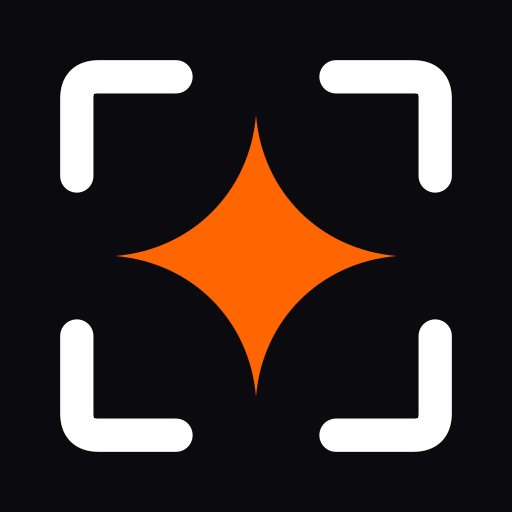
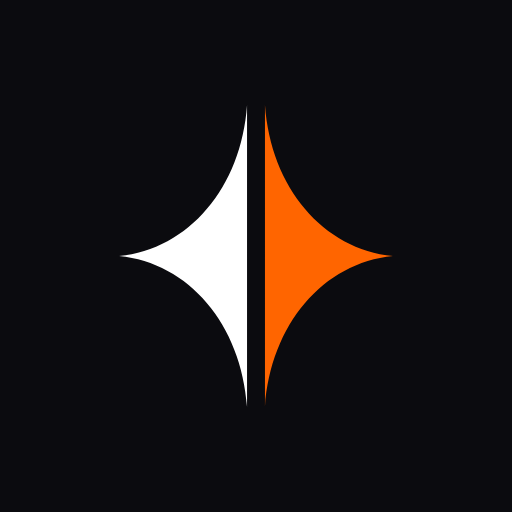
Create betaalprovider-keuze.md

diff --git a/components/logo.tsx b/components/logo.tsx
@@ -1,43 +1,61 @@
 import Link from "next/link"
 
-// Merk-lockup: kader-met-ster (het platform + de ster die schittert) naast het
-// woordmerk. De mark gebruikt currentColor voor het kader (wit op donker) en de
-// brand-oranje #FF6500 voor de ster; het woordmerk staat in Helvetica Bold,
-// exact zoals het merkboard.
-export function Logo({ href = "/" }: { href?: string }) {
+// De gedeelde ster: twee helften — de organisator (currentColor, wit op donker)
+// en de DJ (brand-oranje). Los is elke helft incompleet, samen vormen ze één
+// ster: "be the star you want to be".
+export function StarMark({ className = "h-8 w-8" }: { className?: string }) {
+  return (
+    <svg viewBox="0 0 800 800" className={`flex-none ${className}`} aria-hidden="true">
+      <path fill="currentColor" d="M386.0 164C377.0 292.738,295.1 389.38,186.0 400C295.1 410.62,377.0 507.262,386.0 636Z" />
+      <path fill="#FF6500" d="M414.0 164C423.0 292.738,504.9 389.38,614.0 400C504.9 410.62,423.0 507.262,414.0 636Z" />
+    </svg>
+  )
+}
+
+// Alleen het beeldmerk — voor de balk linksboven, waar de naam al uit de context
+// blijkt.
+export function LogoMark({
+  href = "/",
+  className = "h-8 w-8",
+}: {
+  href?: string
+  className?: string
+}) {
+  return (
+    <Link href={href} aria-label="MyGigs" className="inline-flex">
+      <StarMark className={className} />
+    </Link>
+  )
+}
+
+// Het volledige merk: ster boven, naam eronder in gespatieerde kapitalen —
+// MY in de tekstkleur, GIGS in brand-oranje. De extra text-indent compenseert
+// de letterspatie rechts zodat het woord optisch gecentreerd blijft.
+export function Logo({
+  href = "/",
+  size = "sm",
+}: {
+  href?: string
+  size?: "sm" | "lg"
+}) {
+  const mark = size === "lg" ? "h-16 w-16 sm:h-20 sm:w-20" : "h-8 w-8"
+  const word =
+    size === "lg"
+      ? "text-xl sm:text-2xl -mt-1"
+      : "text-[13px] -mt-0.5"
+
   return (
     <Link
       href={href}
       aria-label="MyGigs"
-      className="inline-flex items-center gap-2.5"
+      className="inline-flex flex-col items-center leading-none"
     >
-      <svg
-        viewBox="0 0 800 800"
-        className="h-8 w-8 flex-none"
-        aria-hidden="true"
-      >
-        <g
-          fill="none"
-          stroke="currentColor"
-          strokeWidth={52}
-          strokeLinecap="round"
-          strokeLinejoin="round"
-        >
-          <path d="M120 275V154Q120 120 154 120H275" />
-          <path d="M525 120H646Q680 120 680 154V275" />
-          <path d="M680 525V646Q680 680 646 680H525" />
-          <path d="M275 680H154Q120 680 120 646V525" />
-        </g>
-        <path
-          fill="#FF6500"
-          d="M400 180C410 300 500 390 620 400C500 410 410 500 400 620C390 500 300 410 180 400C300 390 390 300 400 180Z"
-        />
-      </svg>
+      <StarMark className={mark} />
       <span
-        className="text-xl font-bold tracking-tight"
+        className={`${word} font-bold tracking-[0.26em] indent-[0.26em]`}
         style={{ fontFamily: "Helvetica, Arial, sans-serif" }}
       >
-        My<span style={{ color: "#FF6500" }}>Gigs</span>
+        MY<span style={{ color: "#FF6500" }}>GIGS</span>
       </span>
     </Link>
   )

diff --git a/components/app-shell.tsx b/components/app-shell.tsx
@@ -1,5 +1,5 @@
 import Link from "next/link"
-import { Logo } from "@/components/logo"
+import { LogoMark } from "@/components/logo"
 import {
   SidebarNav,
   BottomNav,
@@ -169,7 +169,7 @@ export async function AppShell({ children }: { children: React.ReactNode }) {
       {/* Desktop sidebar */}
       <aside className="hidden w-64 flex-none flex-col border-r border-border bg-surface px-3 py-5 lg:flex">
         <div className="px-2">
-          <Logo />
+          <LogoMark />
           {profile && (
             <span className="mt-3 inline-flex items-center gap-1.5 rounded-full border border-border bg-surface-2 px-3 py-1 text-xs font-medium text-muted">
               <Icon name={roleIcon(profile.role)} className="h-3.5 w-3.5" />
@@ -230,7 +230,7 @@ export async function AppShell({ children }: { children: React.ReactNode }) {
         {/* Mobile top bar */}
         <div className="safe-top flex items-center justify-between border-b border-border bg-surface px-4 py-3 lg:hidden">
           <div className="flex items-center gap-2">
-            <Logo />
+            <LogoMark />
             {profile && (
               <span className="inline-flex items-center gap-1 rounded-full border border-border bg-surface-2 px-2 py-0.5 text-[11px] font-medium text-muted">
                 <Icon name={roleIcon(profile.role)} className="h-3 w-3" />

diff --git a/app/(marketing)/page.tsx b/app/(marketing)/page.tsx
@@ -1,5 +1,6 @@
 import Link from "next/link"
 import { SiteHeader } from "@/components/site-header"
+import { Logo } from "@/components/logo"
 import { ArtistCard } from "@/components/artist-card"
 import { getArtists } from "@/lib/data/artists"
 import { getProfile } from "@/lib/auth"
@@ -25,9 +26,8 @@ export default async function Home() {
         <div className="brand-glow pointer-events-none absolute inset-x-0 top-0 h-[640px]" />
 
         <section className="relative z-10 mx-auto flex w-full max-w-3xl flex-col items-center px-6 pb-16 pt-20 text-center sm:pt-28">
-          <p className="mb-6 text-2xl font-bold tracking-tight sm:text-3xl">
-            My<span className="text-brand">Gigs</span>
-          </p>
+          <Logo size="lg" />
+          <div className="mb-8" />
           <h1 className="text-balance text-5xl font-semibold leading-[1.05] tracking-tight sm:text-7xl">
             Be the <span className="text-brand">star</span> you want to be.
           </h1>

diff --git a/components/site-header.tsx b/components/site-header.tsx
@@ -1,5 +1,5 @@
 import Link from "next/link"
-import { Logo } from "@/components/logo"
+import { LogoMark } from "@/components/logo"
 import { LanguageSwitcher } from "@/components/language-switcher"
 import { getProfile } from "@/lib/auth"
 import { getI18n } from "@/lib/i18n"
@@ -11,7 +11,7 @@ export async function SiteHeader() {
   return (
     <header className="sticky top-0 z-40 border-b border-border/60 bg-background/80 backdrop-blur">
       <div className="mx-auto flex w-full max-w-6xl items-center justify-between gap-4 px-6 py-4">
-        <Logo />
+        <LogoMark />
         <nav className="flex items-center gap-1 text-sm">
           {/* DJ's browsen niet zelf op Ontdek. */}
           {!isArtist && (

diff --git a/docs/betaalprovider-keuze.md b/docs/betaalprovider-keuze.md
@@ -1,0 +1,107 @@
+# Betaalprovider voor MyGigs — Mollie Connect of Stripe Connect
+
+Datum: 14 augustus 2026. Status: besluitstuk, nog niet geïmplementeerd.
+Tarieven gecontroleerd op de officiële prijspagina's van beide partijen.
+
+## Wat MyGigs nodig heeft
+
+1. **Escrow.** Geld staat vast bij MyGigs tot na het optreden en gaat daarna binnen
+   vijf werkdagen naar de DJ. Dat betekent: betaling nu innen, uitbetaling later
+   beslissen.
+2. **Commissie.** 7% voor MyGigs, "verder geen verrassingen" — de klant mag geen
+   losse providerkosten op zijn bon zien.
+3. **iDEAL eerst.** Nederlandse markt, particuliere organisatoren.
+4. **DJ's zijn geen bedrijven.** Vaak ZZP of hobbyist. Onboarding moet simpel zijn
+   en de identiteitscontrole (KYC) moet bij de provider liggen, niet bij MyGigs.
+5. **Abonnementen.** DJ-abonnementen bestaan al in het schema (`0004`) en op
+   `/subscribe`; de provider moet ook terugkerende incasso aankunnen.
+
+## Vergelijking
+
+| | Mollie Connect | Stripe Connect |
+|---|---|---|
+| iDEAL | € 0,32 per transactie | € 0,29 per transactie |
+| Kaarten (EER, consument) | 1,80% + € 0,25 | 1,5% + € 0,25 |
+| Vaste maandkosten | geen | geen voor het platform zelf |
+| Kosten per aangesloten DJ | geen | $ 2 per maand per actief account (alleen als MyGigs de tarieven bepaalt) |
+| Uitbetaling naar DJ | inbegrepen in de routering | 0,25% + $ 0,25 per uitbetaling |
+| Escrow-mechanisme | Delayed Routing: geld wordt vastgehouden, tot **90 dagen** om te verdelen | Separate charges & transfers: geld op platformsaldo, later overboeken |
+| KYC van de DJ | Mollie doet de verificatie; onboarding vooraf ingevuld via Client Links | Stripe doet de verificatie; Express-onboarding |
+| Bijzonderheid | Delayed Routing moet door Mollie worden vrijgeschakeld; verplicht bruto-afrekenen, kosten maandelijks gefactureerd | Rijker gereedschap: Billing, Radar, Tax |
+
+## Rekenvoorbeeld: boeking van € 300, commissie € 21
+
+**Mollie** — iDEAL € 0,32. Verder geen kosten per DJ of per uitbetaling.
+Netto marge ≈ **€ 20,68 per boeking**.
+
+**Stripe** — iDEAL € 0,29 plus uitbetaling van € 279 à 0,25% + € 0,25 = € 0,95.
+Netto ≈ € 19,76 per boeking, plus $ 2 per maand voor elke DJ die dat maand een
+uitbetaling krijgt. Bij 20 actieve DJ's is dat ± € 37 per maand extra.
+
+Bij 100 boekingen per maand scheelt dat ruwweg **€ 130 per maand** in het voordeel
+van Mollie. Bij lage volumes is het verschil klein; het schaalt tegen je op zodra
+het aantal DJ's groeit.
+
+## Aanbeveling: Mollie Connect
+
+Drie redenen, in volgorde van gewicht:
+
+1. **Delayed Routing is precies jouw escrow.** Je int nu, en beslist tot 90 dagen
+   later wie wat krijgt. Bij Stripe bouw je hetzelfde na met losse charges en
+   transfers — werkt prima, maar het is meer eigen logica en meer dat kan
+   afwijken.
+2. **Geen kosten per aangesloten DJ.** Jouw model leunt op veel DJ's met soms
+   weinig gigs. Een vast bedrag per actief account straft precies dat.
+3. **iDEAL-first en Nederlands.** Support, facturatie en documentatie sluiten aan
+   op een NL-marktplaats met KOR-facturen en btw.
+
+Kies Stripe als je binnen een jaar naar het buitenland wilt, of als je zwaar wilt
+leunen op abonnementen, fraudefilters en automatische btw. Die gereedschapskist is
+duidelijk rijker — maar je betaalt er per DJ voor.
+
+## Wat er moet gebeuren (bij Mollie)
+
+**Vooraf, buiten de code**
+
+- Mollie-account op naam van MyGigs, en Delayed Routing laten vrijschakelen. Dit
+  is een aanvraag, geen knop — plan er doorlooptijd voor in.
+- Bruto-afrekenen betekent dat kosten maandelijks apart gefactureerd worden. Even
+  afstemmen met je boekhouding, want je factuurlogica gaat nu uit van netto.
+
+**Database (migratie 0032)**
+
+- `payments`: `provider`, `provider_payment_id`, `route_id`, `provider_status`.
+- `payouts`: `provider_transfer_id`, `routed_at`.
+- `artists`: `mollie_organization_id`, `onboarding_status`, `can_receive_payments`.
+- Indexen op de provider-ID's; RLS-policies gelijk aan de bestaande tabellen.
+
+**Routes**
+
+- `POST /api/payments/create` — betaling aanmaken met delayed routing, klant
+  doorsturen naar de betaalpagina van Mollie.
+- `POST /api/webhooks/mollie` — statuswijzigingen; altijd de betaling opnieuw
+  ophalen bij Mollie in plaats van de payload vertrouwen.
+- `POST /api/cron/release-escrow` — na afloop van de gig én bevestiging door de
+  klant het bedrag routeren: 93% naar de DJ, 7% naar MyGigs.
+- `GET /api/connect/onboarding` + callback — DJ koppelt of maakt zijn
+  Mollie-organisatie; status tonen op het DJ-dashboard.
+
+**Frontend**
+
+- `pay-form.tsx`: de gesimuleerde betaling en de hardgecodeerde banklijst eruit.
+  Mollie regelt de bankkeuze zelf op de betaalpagina.
+- DJ-profiel: blokkeer boekingen accepteren tot `can_receive_payments` waar is.
+
+**Opruimen**
+
+- `app/api/webhooks/stripe/route.ts` (nu een stub die 501 teruggeeft) verwijderen,
+  en de Stripe Connect-vermelding in `CLAUDE.md` vervangen door Mollie.
+
+## Nog te verifiëren voordat je begint
+
+- Accepteert Mollie MyGigs als marktplaats, en op welke termijn wordt Delayed
+  Routing vrijgeschakeld?
+- Mogen DJ's zonder KVK-inschrijving een Mollie-organisatie krijgen, of moet je
+  voor hobbyisten een andere route bedenken?
+- Blijft de 7%-belofte kloppen als de providerkosten maandelijks gefactureerd
+  worden in plaats van per transactie ingehouden?
